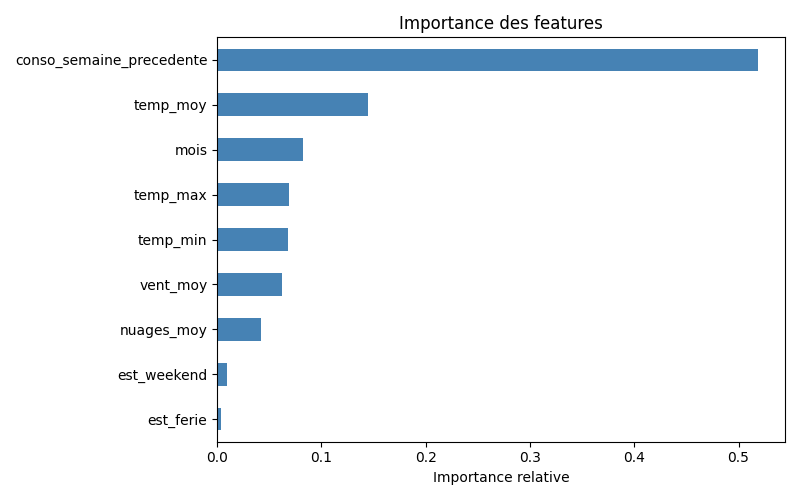
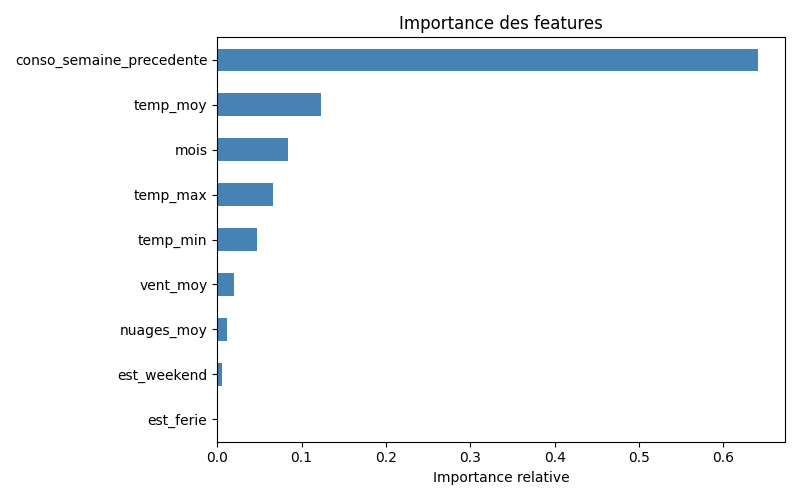
feat: hyperparameter tuning GridSearchCV + meilleurs params automatiques

diff --git a/ml/train.py b/ml/train.py
@@ -64,28 +64,52 @@ def prepare_data(df: pd.DataFrame):
 
 def train_with_cross_validation(X, y):
     """
-    Entraîne avec TimeSeriesSplit — 5 folds chronologiques.
-    Fold 1 : entraîne sur mois 1-6,   valide sur mois 7-8
-    Fold 2 : entraîne sur mois 1-10,  valide sur mois 11-12
-    etc.
+    Recherche des meilleurs hyperparamètres avec GridSearchCV
+    puis validation croisée temporelle.
     """
+    from sklearn.model_selection import GridSearchCV
+
     tscv = TimeSeriesSplit(n_splits=5)
+
+    param_grid = {
+        "n_estimators": [100, 200, 300],
+        "max_depth": [3, 4, 5],
+        "learning_rate": [0.01, 0.05, 0.1],
+        "subsample": [0.8, 1.0],
+    }
+
+    logger.info("Recherche des meilleurs hyperparamètres (GridSearchCV)...")
+    logger.info(f"Nombre de combinaisons : {3*3*3*2} × 5 folds = {3*3*3*2*5} fits")
+
+    base_model = GradientBoostingRegressor(random_state=42)
+
+    grid_search = GridSearchCV(
+        base_model,
+        param_grid,
+        cv=tscv,
+        scoring="neg_mean_absolute_error",
+        n_jobs=-1,
+        verbose=1
+    )
+
+    grid_search.fit(X, y)
+
+    best_params = grid_search.best_params_
+    best_mae = -grid_search.best_score_
+
+    logger.success(f"Meilleurs paramètres : {best_params}")
+    logger.success(f"Meilleur MAE (CV) : {best_mae:,.0f} MWh")
+
+    # Validation fold par fold avec les meilleurs paramètres
     maes = []
     mapes = []
 
-    logger.info("Validation croisée temporelle (5 folds)...")
-
+    logger.info("Validation croisée avec les meilleurs paramètres...")
     for fold, (train_idx, val_idx) in enumerate(tscv.split(X)):
         X_train, X_val = X.iloc[train_idx], X.iloc[val_idx]
         y_train, y_val = y.iloc[train_idx], y.iloc[val_idx]
 
-        model = GradientBoostingRegressor(
-            n_estimators=200,
-            max_depth=4,
-            learning_rate=0.05,
-            subsample=0.8,
-            random_state=42
-        )
+        model = GradientBoostingRegressor(**best_params, random_state=42)
         model.fit(X_train, y_train)
         preds = model.predict(X_val)
 
@@ -98,20 +122,15 @@ def train_with_cross_validation(X, y):
 
     logger.success(f"MAE moyen : {np.mean(maes):,.0f} MWh")
     logger.success(f"MAPE moyen : {np.mean(mapes):.1f}%")
-    return np.mean(maes), np.mean(mapes)
+
+    return np.mean(maes), np.mean(mapes), best_params
 
 
-def train_final_model(X, y):
-    """Entraîne le modèle final sur toutes les données."""
-    logger.info("Entraînement du modèle final sur toutes les données...")
+def train_final_model(X, y, best_params: dict):
+    """Entraîne le modèle final avec les meilleurs paramètres."""
+    logger.info(f"Entraînement final avec : {best_params}")
 
-    model = GradientBoostingRegressor(
-        n_estimators=200,
-        max_depth=4,
-        learning_rate=0.05,
-        subsample=0.8,
-        random_state=42
-    )
+    model = GradientBoostingRegressor(**best_params, random_state=42)
     model.fit(X, y)
     logger.success("Modèle entraîné !")
     return model
@@ -144,7 +163,13 @@ def save_model(model, mae: float, mape: float):
     joblib.dump(model, model_path)
     logger.success(f"Modèle sauvegardé : {model_path}")
 
-    metrics = {"mae": mae, "mape": mape, "features": FEATURES, "target": TARGET}
+    metrics = {
+        "mae": mae,
+        "mape": mape,
+        "features": FEATURES,
+        "target": TARGET,
+        "best_params": getattr(model, 'get_params', lambda: {})()
+    }
     metrics_path = Path("ml/models/metrics.json")
     import json
     with open(metrics_path, "w") as f:
@@ -165,8 +190,8 @@ if __name__ == "__main__":
     df = load_data()
     X, y, df_clean = prepare_data(df)
 
-    mae, mape = train_with_cross_validation(X, y)
-    model = train_final_model(X, y)
+    mae, mape, best_params = train_with_cross_validation(X, y)
+    model = train_final_model(X, y, best_params)
 
     plot_feature_importance(model, FEATURES)
     save_model(model, mae, mape)
